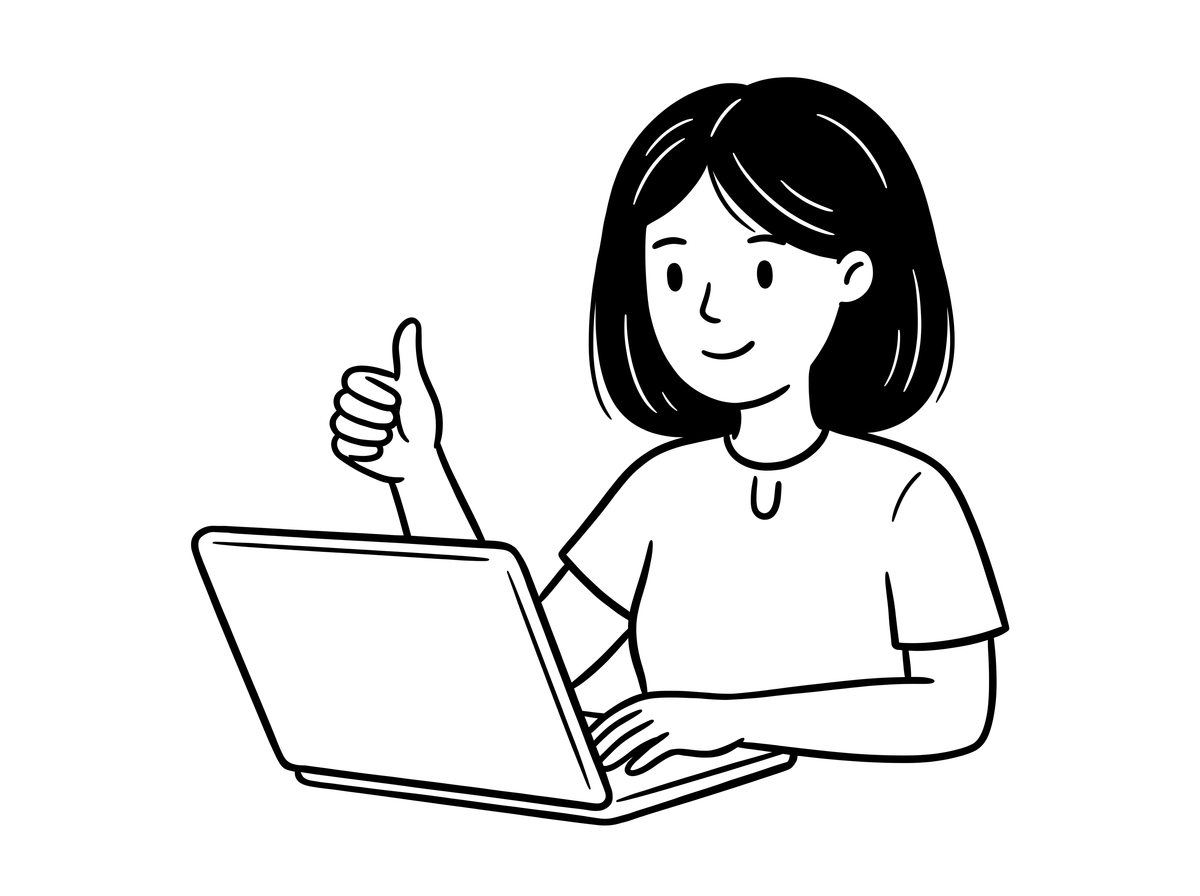
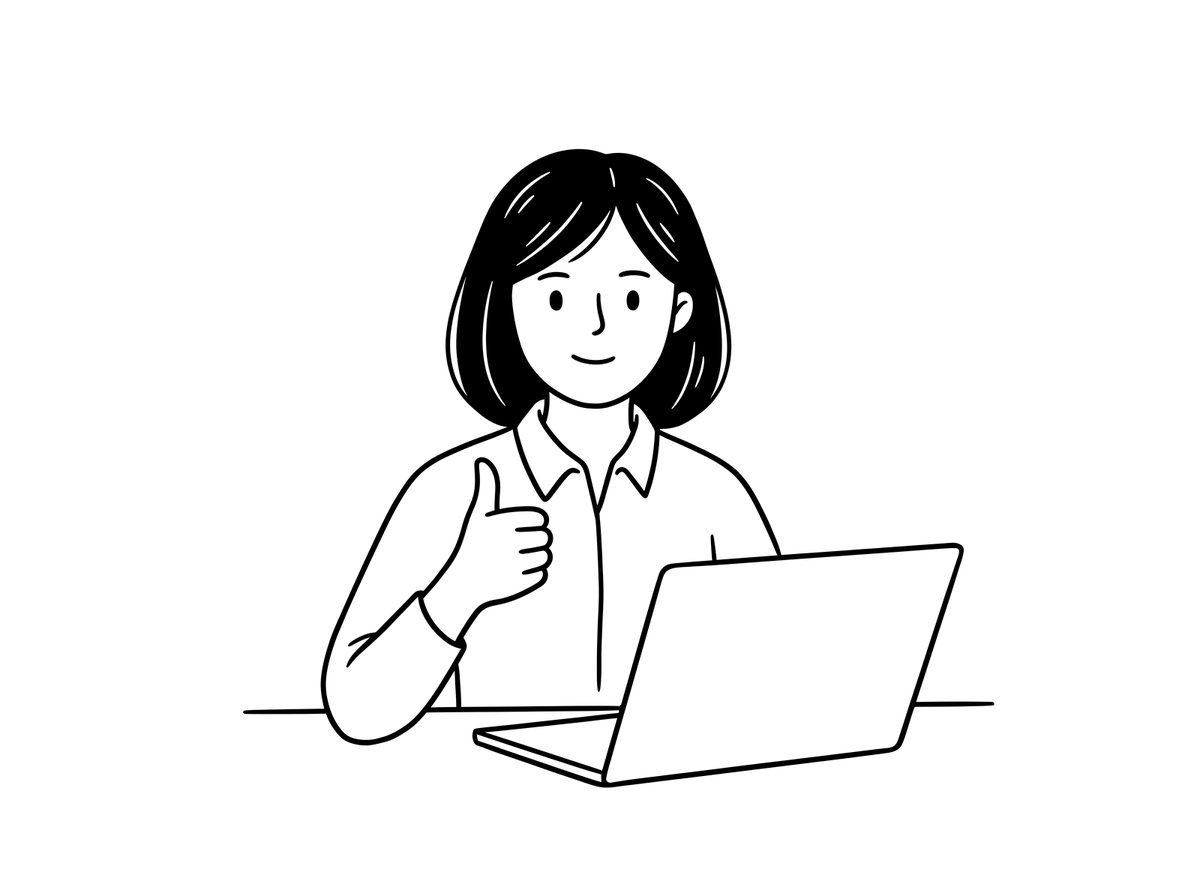
Use selected solutions illustration

Changed region(s): [[0.1542, 0.0625, 0.8633, 0.9375]]

diff --git a/.project/ledger/led-0013.md b/.project/ledger/led-0013.md
@@ -1,0 +1,13 @@
+---
+id: led-0013
+title: 你说的“第一张线稿”具体指哪一张？
+type: product-fact
+status: done
+provenance: user-stated
+anchors: 
+created: 2026-09-21
+updated: 2026-09-21
+supersedes: 
+superseded_by: 
+---
+第二张白底线稿
